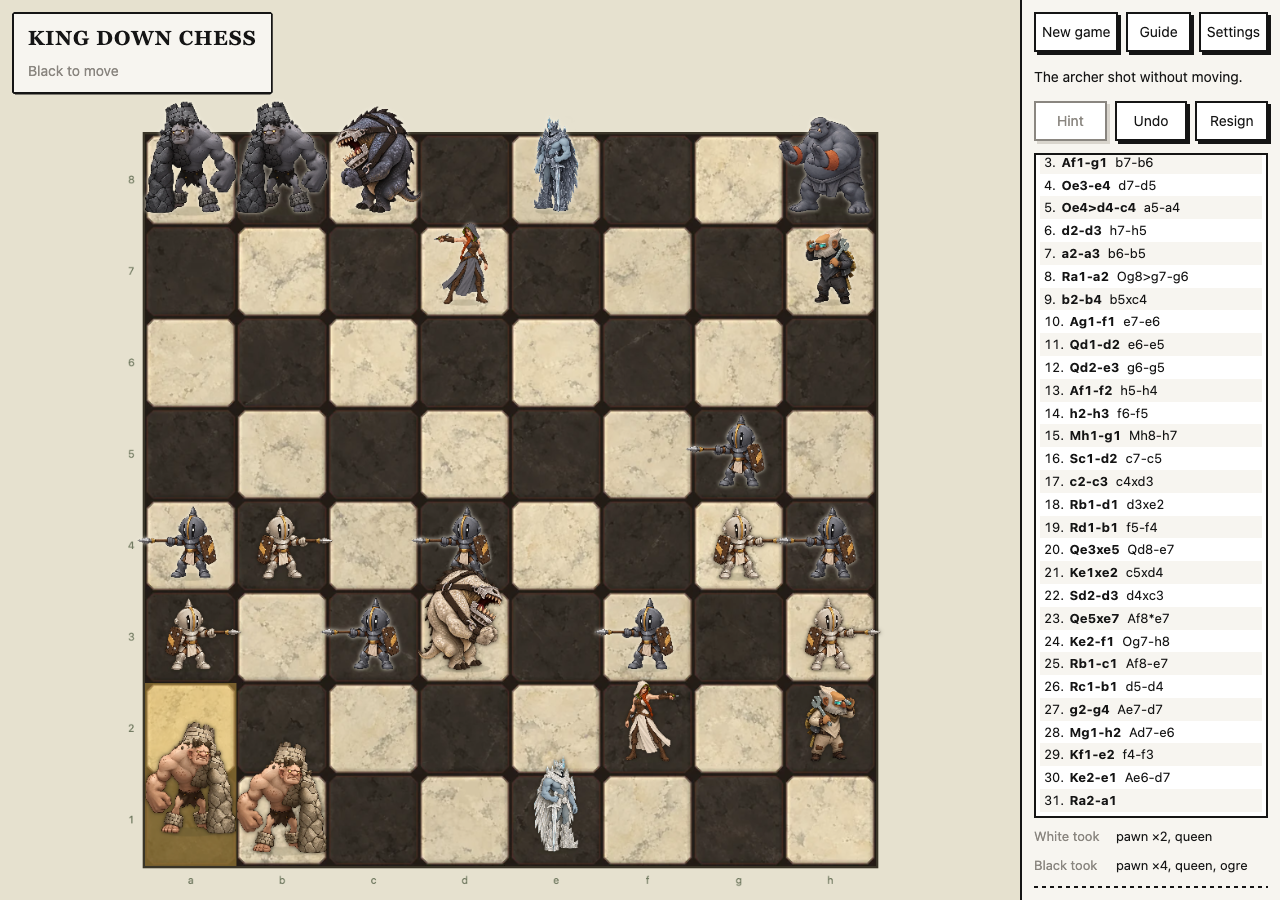
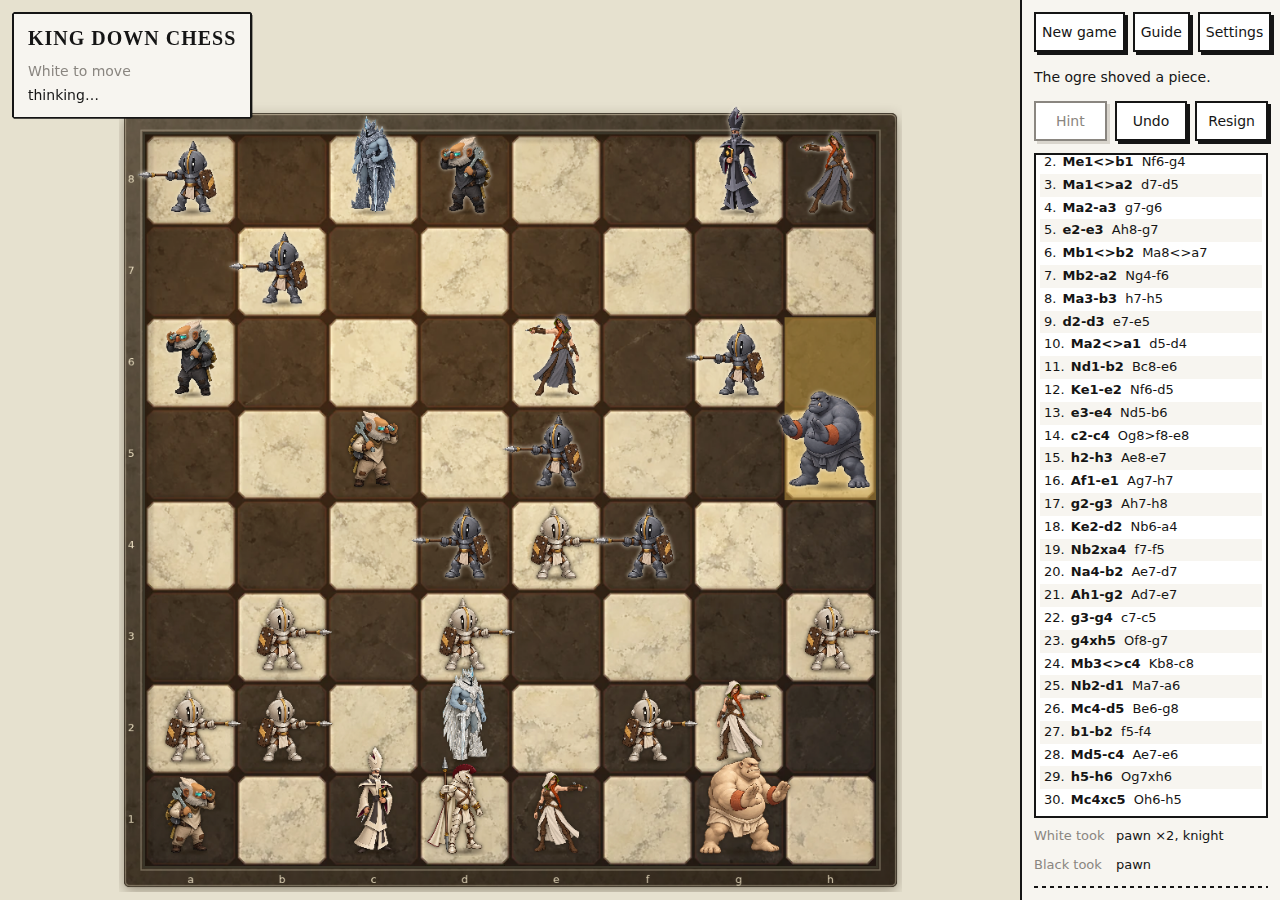
Painted motion: frame sheets, board stills, game screenshots and notes
Claude-Session: https://claude.ai/code/session_014GHo5zahMJ2jqfa8jJVeRQ

diff --git a/docs/painted-motion/harness.html b/docs/painted-motion/harness.html
@@ -1,0 +1,6 @@
+<!doctype html>
+<meta charset="utf-8">
+<title>Painted motion harness</title>
+<style>body{margin:0;background:#e6e1cf}canvas{display:block}</style>
+<canvas id="scene"></canvas>
+<script type="module" src="./harness.mjs"></script>

diff --git a/docs/painted-motion/README.md b/docs/painted-motion/README.md
@@ -1,0 +1,43 @@
+# Painted motion: quiet moves, the selected piece, the board — 2026-10-02
+
+In the painted look, every move now has some character, not only captures, and the board looks like a real object in warm light.
+
+## What changed (game only)
+
+- **Quiet moves.** Each figure moves in its own way instead of a flat slide. All of them stay under half a second at Normal speed.
+  - **Walk** (King, Guard, Maester, Ogre, Beast, Archer): a small dip, two quick footfalls with a forward lean, then the weight settles with a little squash. 440 ms.
+  - **Glide** (Rook, Bishop, Queen): lean back, glide low over the stone leaning into the run, then lean back against the stop and settle. 378 ms for one square, 28 ms more per square, at most 480 ms.
+  - **Hop** (Pawn): crouch, hop (higher for a two-square move), land with a squash and spring upright. 420 ms.
+  - The Knight keeps his leap and the Paladin his charge; lab pieces (tokens) keep the plain slide.
+  - The pictures are single painted images, so this is all done by moving, squashing and tilting the image about its feet, with the shadow staying on the ground.
+- **Selected piece.** It breathes slowly (stretches up a little, its shadow pulses) until it moves or is deselected. Off when Animations is Off or the system asks for reduced motion. It redraws at about 30 frames a second, only while a piece is selected.
+- **Board.** A frame cut from the board's own dark stone (lit from the top left, with a light edge), soft contact shadows under every figure, and warm light from the top left with a gentle fall-off to the far corners. Coordinates sit on the frame in light lettering.
+- **Settings still work.** Fast plays every quiet move at double speed, Off shows only the result, and a tap on the board (or Escape) skips a move.
+
+## Frame sheets and screenshots
+
+- Quiet moves, both armies, one sheet per figure: [quiet/](quiet/) — [king](quiet/king.webp), [guard](quiet/guard.webp), [maester](quiet/maester.webp), [ogre](quiet/ogre.webp), [beast](quiet/beast.webp), [archer](quiet/archer.webp), [rook](quiet/rook.webp), [bishop](quiet/bishop.webp), [queen](quiet/queen.webp), [pawn](quiet/pawn.webp), [knight](quiet/knight.webp) (unchanged leap), [paladin](quiet/paladin.webp) (unchanged charge). Timings in [quiet-moves.json](quiet-moves.json).
+- Selected idle over one breath: [idle.webp](idle.webp).
+- Board before and after: [plain](board-plain.webp) / [atmosphere](board-atmosphere.webp); from Black's side [plain](board-plain-black.webp) / [atmosphere](board-atmosphere-black.webp).
+- In the game: [desktop](game-desktop.jpg), [390 px phone](game-phone.jpg), [phone as Black](game-phone-black.jpg).
+
+Regenerate: `PLAYABLE_URL=http://127.0.0.1:5189/ PLAYABLE_BROWSER=chromium node tools/painted-motion-sheets.mjs` (the game screenshots need a build on that URL; the sheets do not). The tool drives a fake clock, so frames are exact, and it checks that every quiet move ends pixel-identical to the still position, that each gait is under 500 ms, that with liveliness off the scene still plays the plain slide, and that the idle moves only when on.
+
+## How it works
+
+- `docs/2d-first-pieces/board/gait.mjs`: the gaits as data. `GAITS[name] = {duration(squares), at(progress, squares)}` returns where the feet are along the move (`travel`), how high the figure is (`lift`), squash (`sx`, `sy`), lean (`tilt`) and shadow size. `GAIT_OF` names each figure's gait. `idleAt(ms)` is the selected breath.
+- `scene.setLively({moves, idle, atmosphere})` turns the three parts on. **All are off by default**, so the board trial and the trailer, which share the scene, are unchanged. `src/render/PaintedView.ts` turns them on for the game.
+- `scene.playing` names what is playing (`'walk'`, `'glide'`, `'hop'`, or the capture kind), for checks.
+- **Adding a move kind** (for example the kings' powers in PR #1): add an entry to `GAITS` (a function of progress returning the same fields) and either name it in `GAIT_OF` or play it directly with `scene.play(move, {gait: 'name'})`. A power that needs effects beyond the figure (ice, wings) belongs in `scene.mjs` beside the capture effects, as a new animation type in `plan()` and `render()`.
+
+## Proof the trailer and trial did not change
+
+- `capture-strikes.mjs`: 15/15, and all 11 strike sheets byte-identical to the same tool's run on `main` in this session. (The sheets committed in `strikes/` differ from both runs byte for byte, because this cloud browser is a different Chromium build from the one that made them; that is why they are not recommitted.)
+- Trailer stills (`node tools/render-trailer.mjs still 2.2 … --shot montage` and `--shot wake`) are byte-identical before and after. A full-timeline still cannot be rendered in this cloud clone: the kings shot needs git-ignored art (`docs/trailer/assets/`).
+
+## Limits
+
+- One painted pose per figure: no legs move. The walk is a bob and lean, not a walk cycle.
+- The lean reads best on sideways moves; on moves straight up or down the board it is a third as strong, because a side-on drawing cannot lean "into" the screen.
+- The idle redraws the whole board about 30 times a second while a piece is selected; on a slow phone that costs some battery while the player thinks.
+- Not seen on a real phone, only in headless Chromium at 390 px.
